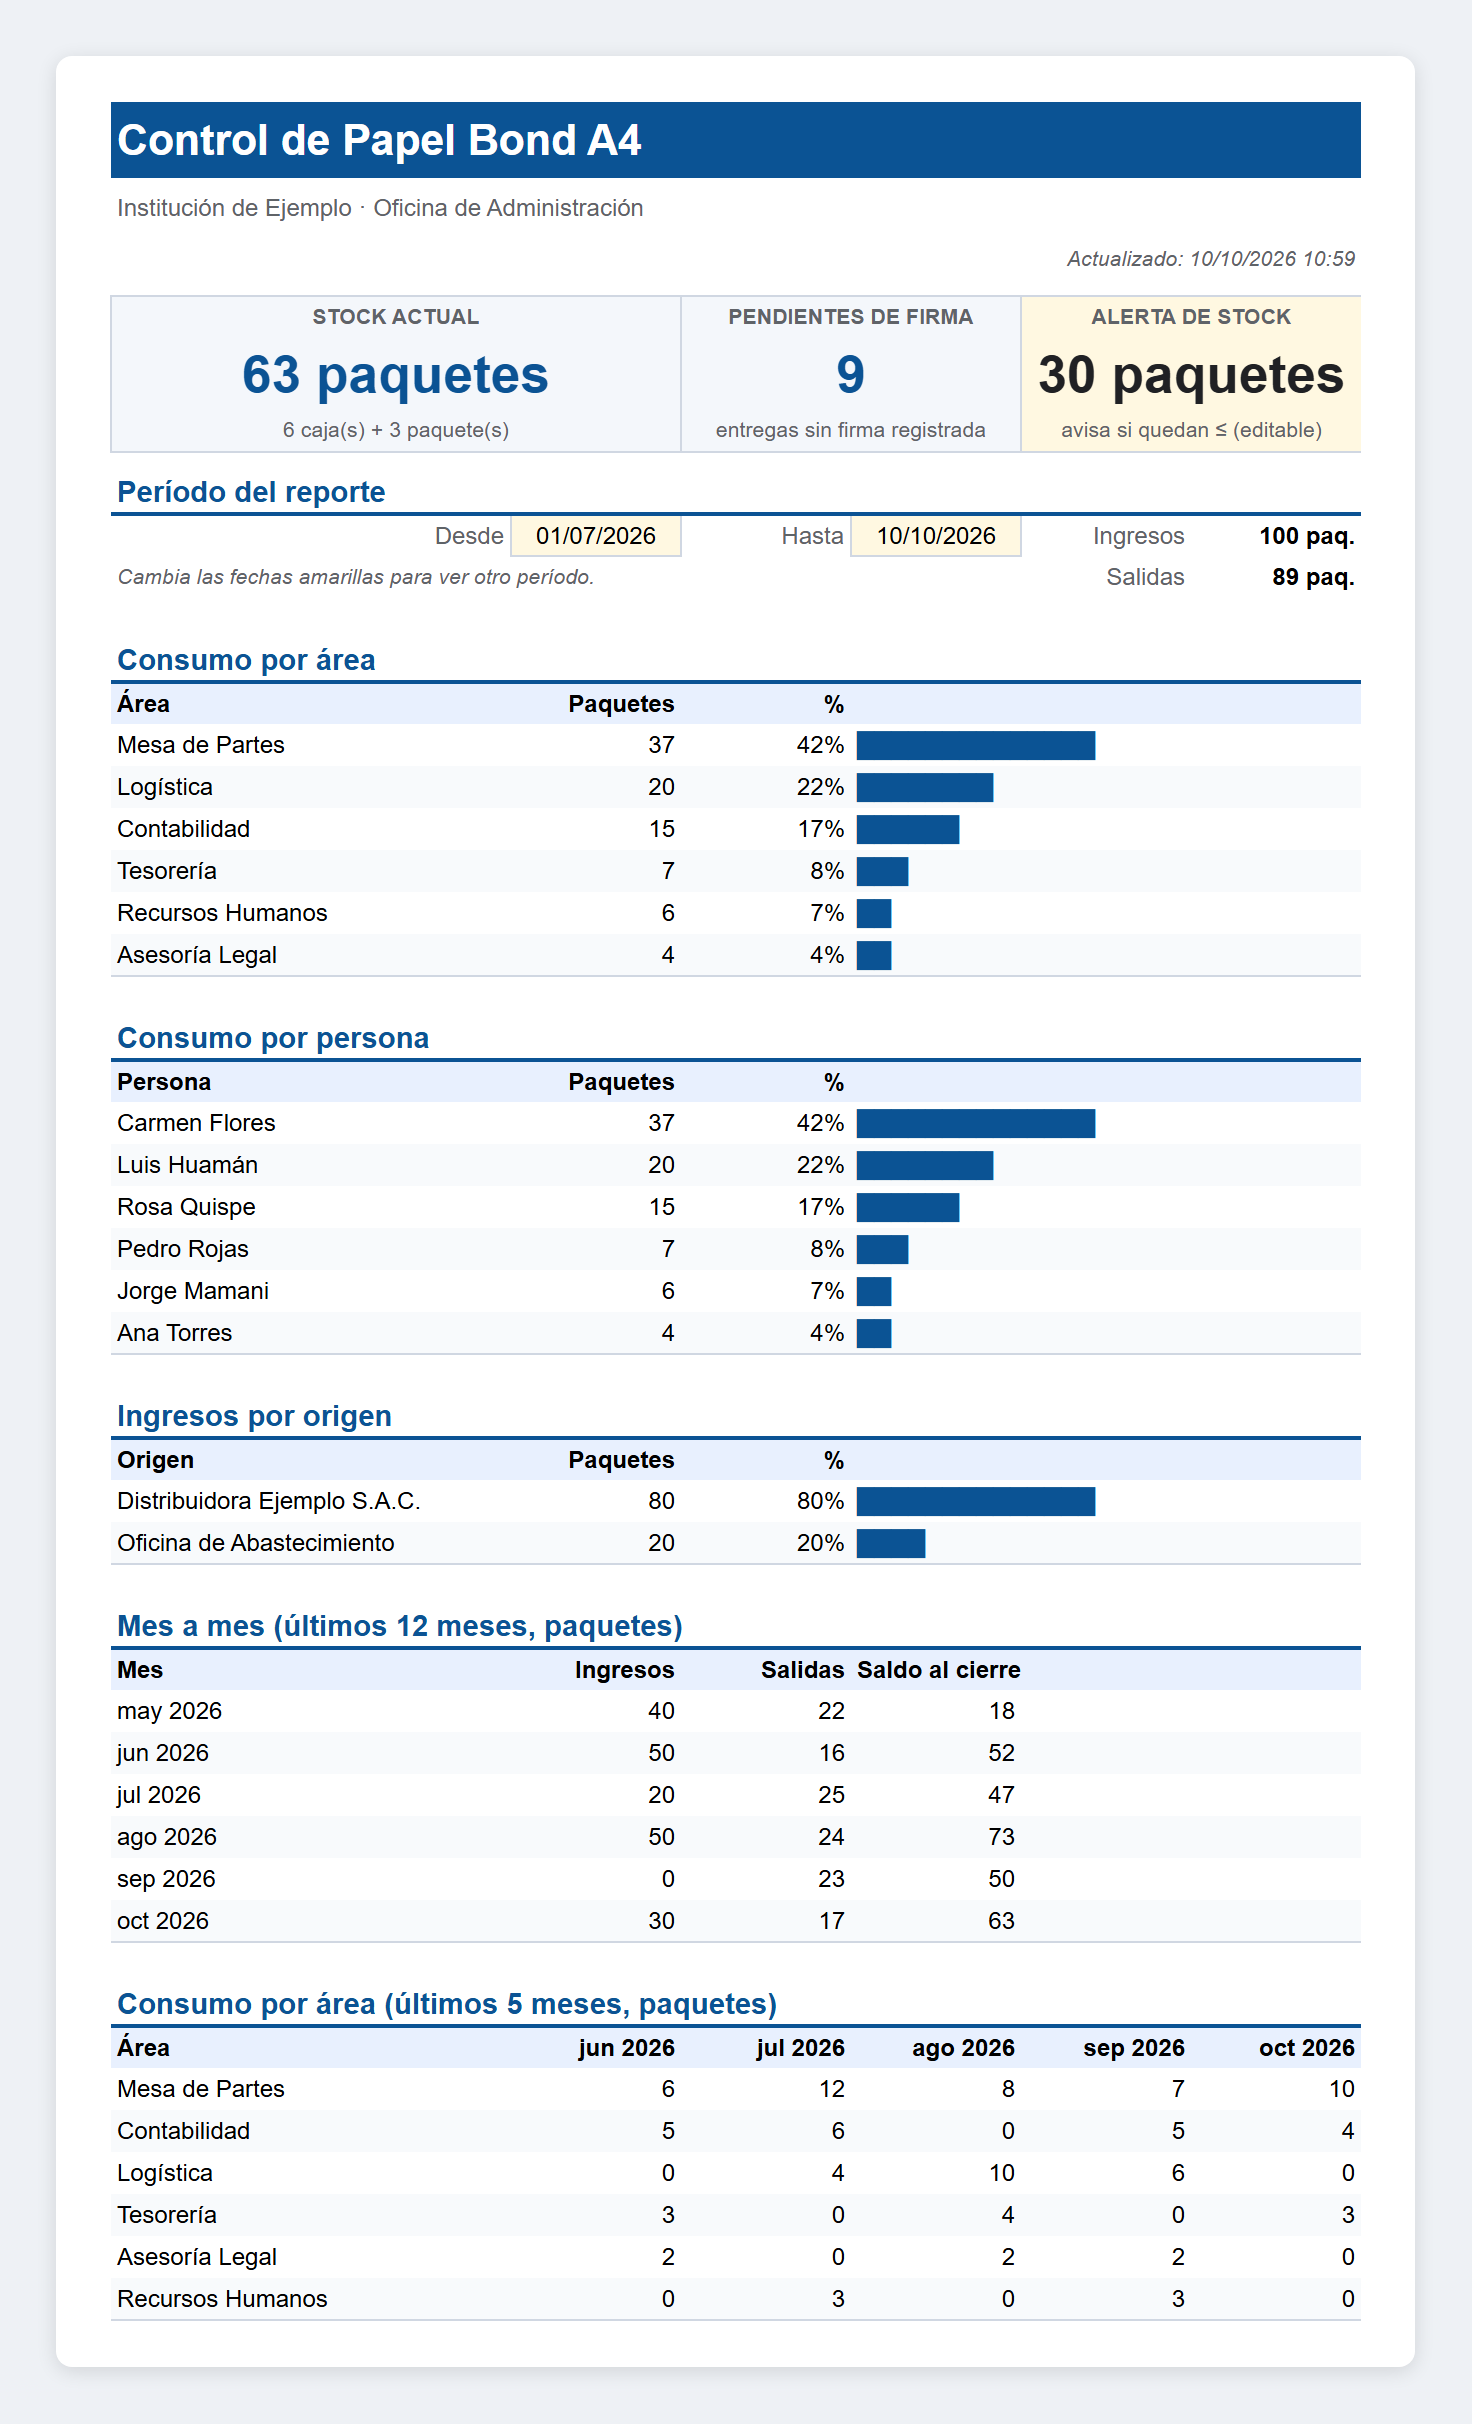
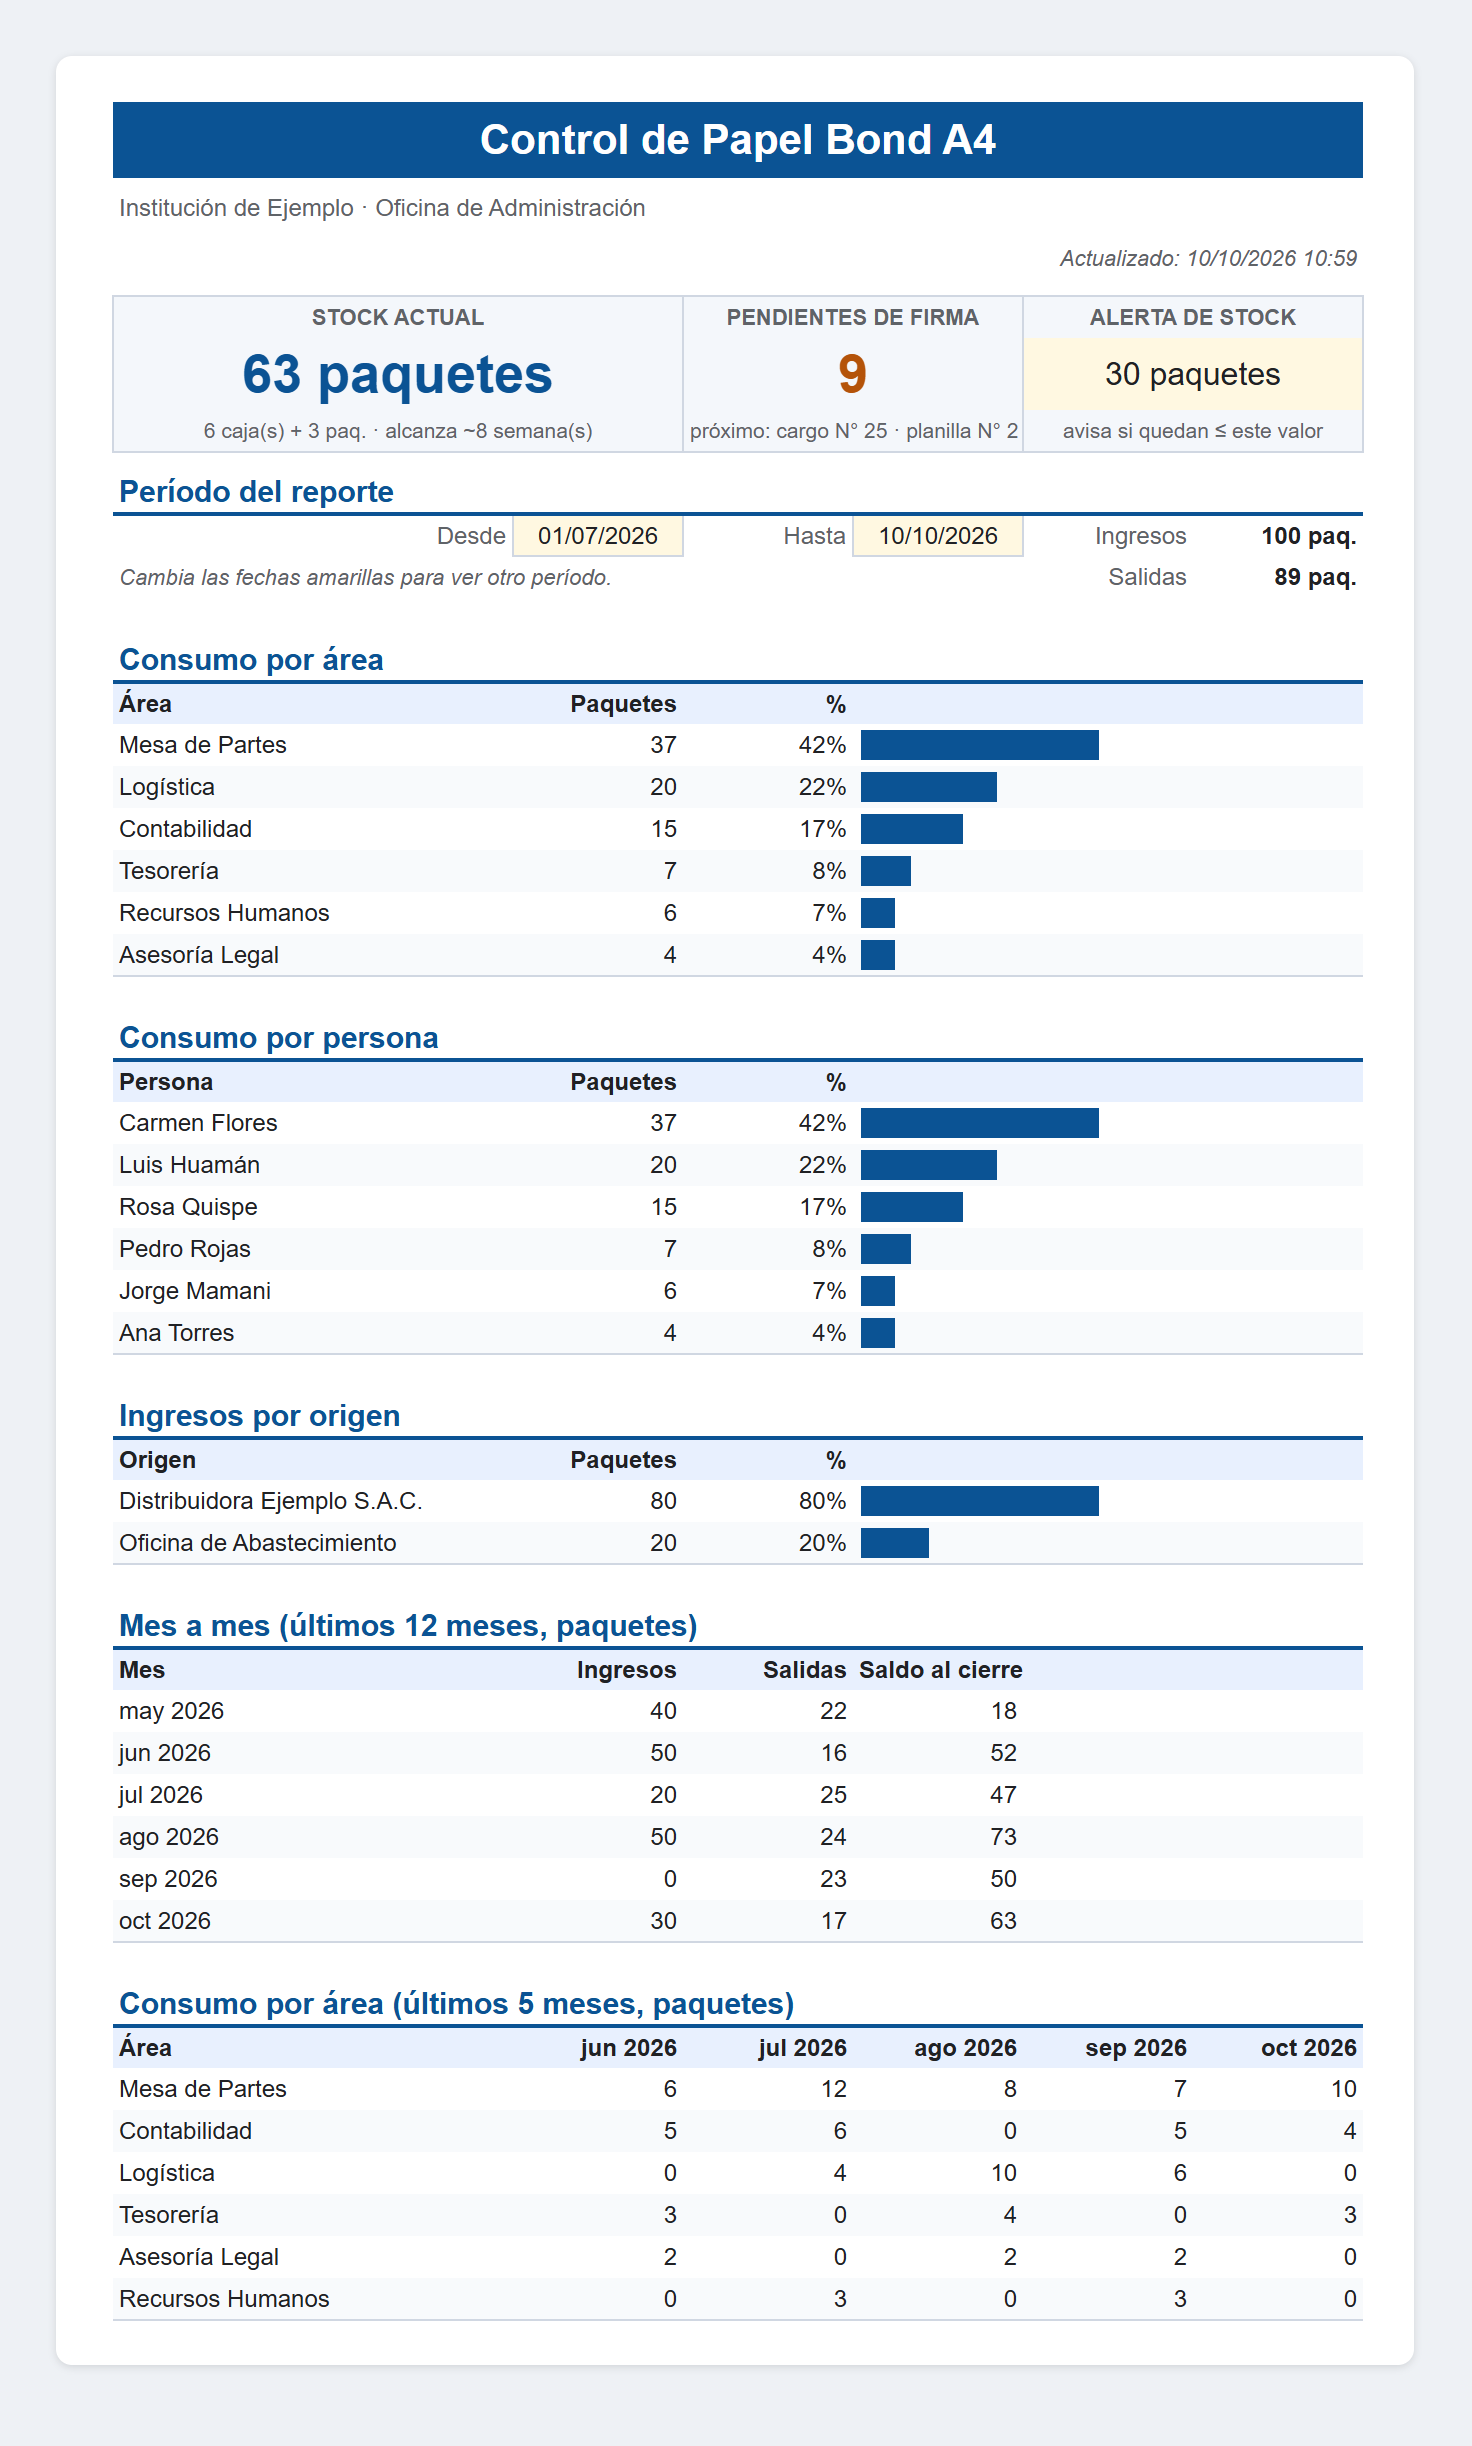
Actualizar la captura del Resumen al diseño de la v1.1.0 y guardar el HTML que la genera

diff --git a/docs/capturas/resumen.html b/docs/capturas/resumen.html
@@ -1,0 +1,128 @@
+<!DOCTYPE html>
+<!--
+  Captura de la hoja Resumen para el README (docs/resumen.png), con datos ficticios.
+  Imita la hoja que dibuja renderResumen() en src/Codigo.gs: columna A de 200 px, B a F de 85 px.
+  Para regenerarla (desde la raíz del repositorio, con Microsoft Edge o Chrome):
+    msedge --headless=new --hide-scrollbars --force-device-scale-factor=2 --window-size=736,1223 --screenshot=docs/resumen.png docs/capturas/resumen.html
+-->
+<html lang="es">
+<head>
+<meta charset="utf-8">
+<title>Resumen</title>
+<style>
+  * { box-sizing: border-box; }
+  html, body { margin: 0; background: #eef1f5; }
+  body { padding: 28px 29px 40px 28px; font-family: Arial, Helvetica, sans-serif; font-size: 12px; color: #202124; }
+  .hoja { background: #fff; border-radius: 8px; box-shadow: 0 1px 4px rgba(0,0,0,.12); padding: 23px 28px 22px 28px; width: 679px; }
+  table { border-collapse: collapse; table-layout: fixed; width: 625px; }
+  col.a { width: 200px; } col.n { width: 85px; }
+  td { height: 21px; padding: 0 3px; vertical-align: middle; white-space: nowrap; overflow: hidden; }
+  .titulo { background: #0b5394; color: #fff; font-size: 21px; font-weight: bold; height: 38px; text-align: center; }
+  .sub { color: #5f6368; height: 30px; }
+  .act { color: #5f6368; font-size: 11px; font-style: italic; text-align: right; }
+  .sep4 td { height: 8px; } .sep8 td { height: 10px; }
+  .tar { background: #f4f7fb; text-align: center; border-left: 1px solid #d0d7e2; border-right: 1px solid #d0d7e2; }
+  .tar.top { border-top: 1px solid #d0d7e2; } .tar.bot { border-bottom: 1px solid #d0d7e2; }
+  .etq { font-size: 11px; font-weight: bold; color: #5f6368; }
+  .val { font-size: 27px; font-weight: bold; height: 36px; }
+  .nota { font-size: 10.5px; color: #5f6368; }
+  .azul { color: #0b5394; } .ambar { color: #b45309; }
+  .editable { background: #fff8e1; }
+  .val.peq { font-size: 16px; font-weight: normal; color: #202124; }
+  .sec { font-size: 15px; font-weight: bold; color: #0b5394; border-bottom: 2px solid #0b5394; }
+  .gris { color: #5f6368; } .der { text-align: right; } .cen { text-align: center; } .neg { font-weight: bold; }
+  .fecha { background: #fff8e1; border: 1px solid #d0d7e2; text-align: center; }
+  .pista { font-size: 11px; font-style: italic; color: #5f6368; }
+  .enc td { background: #e8f0fe; font-weight: bold; }
+  .enc td + td { text-align: right; }
+  .dat td + td { text-align: right; }
+  .dat.z td { background: #f8fafc; }
+  .ult td { border-bottom: 1px solid #d0d7e2; }
+  td.barra { text-align: left !important; color: #0b5394; padding-left: 4px; }
+  .barra span { display: inline-block; height: 15px; background: #0b5394; vertical-align: middle; }
+</style>
+</head>
+<body>
+<div class="hoja">
+<table>
+  <colgroup><col class="a"><col class="n"><col class="n"><col class="n"><col class="n"><col class="n"></colgroup>
+  <tr><td colspan="6" class="titulo">Control de Papel Bond A4</td></tr>
+  <tr><td colspan="6" class="sub">Institución de Ejemplo · Oficina de Administración</td></tr>
+  <tr><td colspan="6" class="act">Actualizado: 10/10/2026 10:59</td></tr>
+  <tr class="sep4"><td colspan="6"></td></tr>
+  <tr>
+    <td colspan="2" class="tar top etq">STOCK ACTUAL</td>
+    <td colspan="2" class="tar top etq">PENDIENTES DE FIRMA</td>
+    <td colspan="2" class="tar top etq">ALERTA DE STOCK</td>
+  </tr>
+  <tr>
+    <td colspan="2" class="tar val azul">63 paquetes</td>
+    <td colspan="2" class="tar val ambar">9</td>
+    <td colspan="2" class="tar val peq editable">30 paquetes</td>
+  </tr>
+  <tr>
+    <td colspan="2" class="tar bot nota">6 caja(s) + 3 paq. · alcanza ~8 semana(s)</td>
+    <td colspan="2" class="tar bot nota">próximo: cargo N° 25 · planilla N° 2</td>
+    <td colspan="2" class="tar bot nota">avisa si quedan ≤ este valor</td>
+  </tr>
+  <tr class="sep8"><td colspan="6"></td></tr>
+  <tr><td colspan="6" class="sec">Período del reporte</td></tr>
+  <tr>
+    <td class="der gris">Desde</td><td class="fecha">01/07/2026</td>
+    <td class="der gris">Hasta</td><td class="fecha">10/10/2026</td>
+    <td class="der gris">Ingresos</td><td class="der neg">100 paq.</td>
+  </tr>
+  <tr>
+    <td colspan="4" class="pista">Cambia las fechas amarillas para ver otro período.</td>
+    <td class="der gris">Salidas</td><td class="der neg">89 paq.</td>
+  </tr>
+  <tr><td colspan="6"></td></tr>
+
+  <tr><td colspan="6" class="sec">Consumo por área</td></tr>
+  <tr class="enc"><td>Área</td><td>Paquetes</td><td>%</td><td colspan="3"></td></tr>
+  <tr class="dat"><td>Mesa de Partes</td><td>37</td><td>42%</td><td colspan="3" class="barra"><span style="width:119px"></span></td></tr>
+  <tr class="dat z"><td>Logística</td><td>20</td><td>22%</td><td colspan="3" class="barra"><span style="width:68px"></span></td></tr>
+  <tr class="dat"><td>Contabilidad</td><td>15</td><td>17%</td><td colspan="3" class="barra"><span style="width:51px"></span></td></tr>
+  <tr class="dat z"><td>Tesorería</td><td>7</td><td>8%</td><td colspan="3" class="barra"><span style="width:25px"></span></td></tr>
+  <tr class="dat"><td>Recursos Humanos</td><td>6</td><td>7%</td><td colspan="3" class="barra"><span style="width:17px"></span></td></tr>
+  <tr class="dat z ult"><td>Asesoría Legal</td><td>4</td><td>4%</td><td colspan="3" class="barra"><span style="width:17px"></span></td></tr>
+  <tr><td colspan="6"></td></tr>
+
+  <tr><td colspan="6" class="sec">Consumo por persona</td></tr>
+  <tr class="enc"><td>Persona</td><td>Paquetes</td><td>%</td><td colspan="3"></td></tr>
+  <tr class="dat"><td>Carmen Flores</td><td>37</td><td>42%</td><td colspan="3" class="barra"><span style="width:119px"></span></td></tr>
+  <tr class="dat z"><td>Luis Huamán</td><td>20</td><td>22%</td><td colspan="3" class="barra"><span style="width:68px"></span></td></tr>
+  <tr class="dat"><td>Rosa Quispe</td><td>15</td><td>17%</td><td colspan="3" class="barra"><span style="width:51px"></span></td></tr>
+  <tr class="dat z"><td>Pedro Rojas</td><td>7</td><td>8%</td><td colspan="3" class="barra"><span style="width:25px"></span></td></tr>
+  <tr class="dat"><td>Jorge Mamani</td><td>6</td><td>7%</td><td colspan="3" class="barra"><span style="width:17px"></span></td></tr>
+  <tr class="dat z ult"><td>Ana Torres</td><td>4</td><td>4%</td><td colspan="3" class="barra"><span style="width:17px"></span></td></tr>
+  <tr><td colspan="6"></td></tr>
+
+  <tr><td colspan="6" class="sec">Ingresos por origen</td></tr>
+  <tr class="enc"><td>Origen</td><td>Paquetes</td><td>%</td><td colspan="3"></td></tr>
+  <tr class="dat"><td>Distribuidora Ejemplo S.A.C.</td><td>80</td><td>80%</td><td colspan="3" class="barra"><span style="width:119px"></span></td></tr>
+  <tr class="dat z ult"><td>Oficina de Abastecimiento</td><td>20</td><td>20%</td><td colspan="3" class="barra"><span style="width:34px"></span></td></tr>
+  <tr><td colspan="6"></td></tr>
+
+  <tr><td colspan="6" class="sec">Mes a mes (últimos 12 meses, paquetes)</td></tr>
+  <tr class="enc"><td>Mes</td><td>Ingresos</td><td>Salidas</td><td>Saldo al cierre</td><td></td><td></td></tr>
+  <tr class="dat"><td>may 2026</td><td>40</td><td>22</td><td>18</td><td></td><td></td></tr>
+  <tr class="dat z"><td>jun 2026</td><td>50</td><td>16</td><td>52</td><td></td><td></td></tr>
+  <tr class="dat"><td>jul 2026</td><td>20</td><td>25</td><td>47</td><td></td><td></td></tr>
+  <tr class="dat z"><td>ago 2026</td><td>50</td><td>24</td><td>73</td><td></td><td></td></tr>
+  <tr class="dat"><td>sep 2026</td><td>0</td><td>23</td><td>50</td><td></td><td></td></tr>
+  <tr class="dat z ult"><td>oct 2026</td><td>30</td><td>17</td><td>63</td><td></td><td></td></tr>
+  <tr><td colspan="6"></td></tr>
+
+  <tr><td colspan="6" class="sec">Consumo por área (últimos 5 meses, paquetes)</td></tr>
+  <tr class="enc"><td>Área</td><td>jun 2026</td><td>jul 2026</td><td>ago 2026</td><td>sep 2026</td><td>oct 2026</td></tr>
+  <tr class="dat"><td>Mesa de Partes</td><td>6</td><td>12</td><td>8</td><td>7</td><td>10</td></tr>
+  <tr class="dat z"><td>Contabilidad</td><td>5</td><td>6</td><td>0</td><td>5</td><td>4</td></tr>
+  <tr class="dat"><td>Logística</td><td>0</td><td>4</td><td>10</td><td>6</td><td>0</td></tr>
+  <tr class="dat z"><td>Tesorería</td><td>3</td><td>0</td><td>4</td><td>0</td><td>3</td></tr>
+  <tr class="dat"><td>Asesoría Legal</td><td>2</td><td>0</td><td>2</td><td>2</td><td>0</td></tr>
+  <tr class="dat z ult"><td>Recursos Humanos</td><td>0</td><td>3</td><td>0</td><td>3</td><td>0</td></tr>
+</table>
+</div>
+</body>
+</html>
